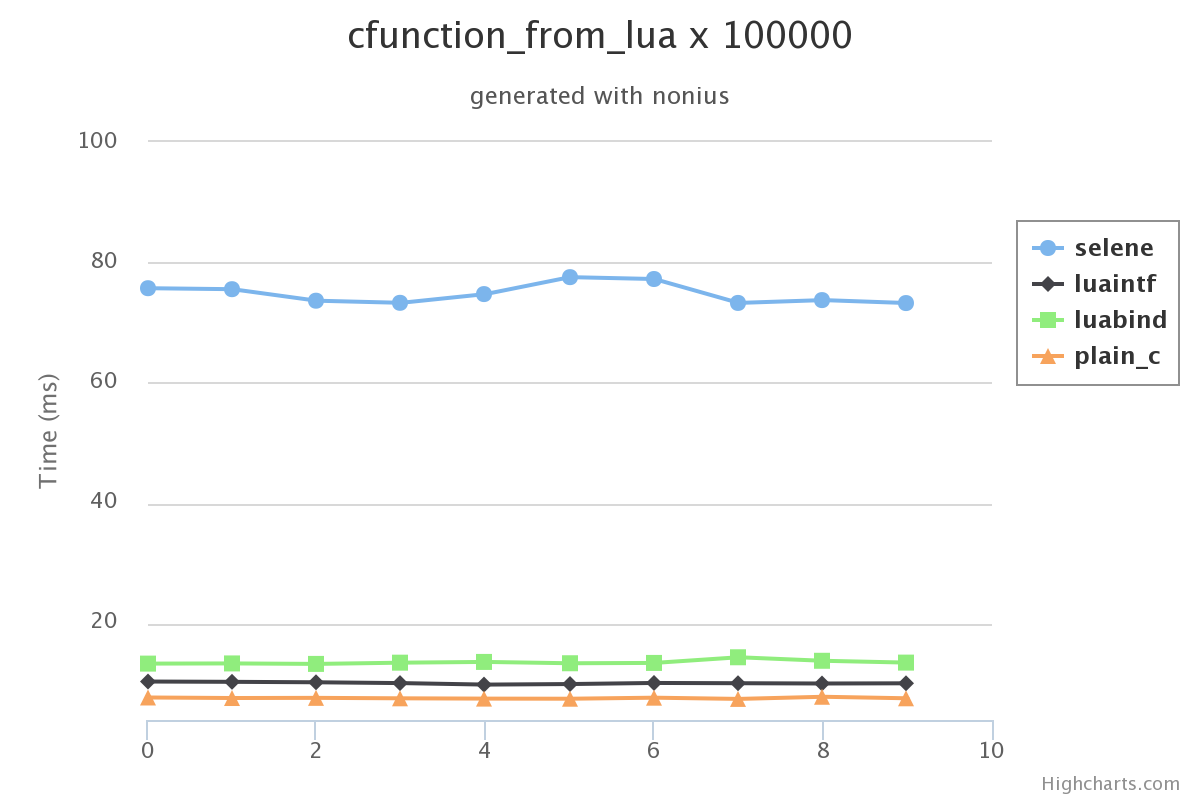
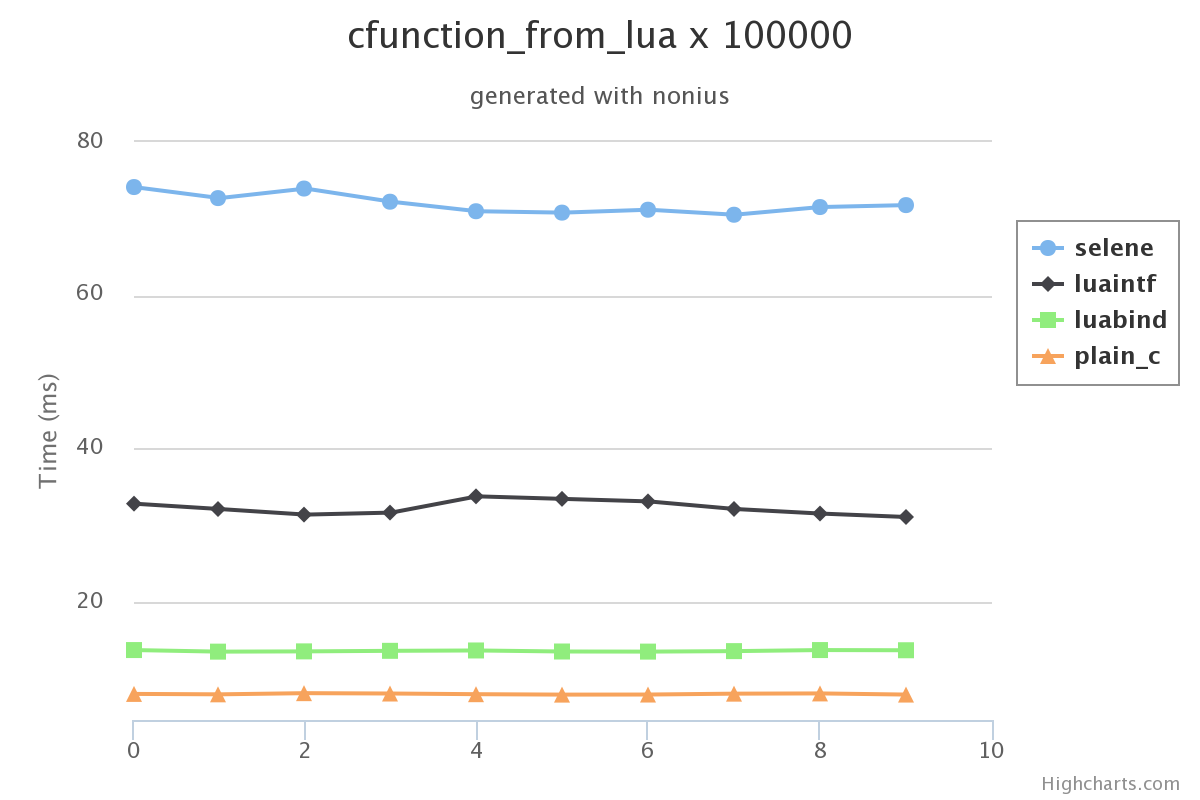
fixed bug in benchmark code results updated

diff --git a/results/cfunction_from_lua.html b/results/cfunction_from_lua.html
@@ -502,19 +502,19 @@ $(function () {
             },
             series: [{
                         name: 'selene',
-                        data: [[75.727000000000004],[75.561999999999998],[73.650000000000006],[73.301000000000002],[74.751999999999995],[77.561999999999998],[77.251000000000005],[73.283000000000001],[73.751999999999995],[73.260000000000005],]
+                        data: [[74.126999999999995],[72.686999999999998],[73.930999999999997],[72.215000000000003],[70.972999999999999],[70.790999999999997],[71.171000000000006],[70.516999999999996],[71.519000000000005],[71.771000000000001],]
                     },
                     {
                         name: 'luaintf',
-                        data: [[10.427],[10.378],[10.302],[10.167999999999999],[9.9190000000000005],[10.007999999999999],[10.191000000000001],[10.147],[10.099],[10.134],]
+                        data: [[32.850999999999999],[32.149000000000001],[31.422999999999998],[31.684999999999999],[33.805],[33.472999999999999],[33.145000000000003],[32.158000000000001],[31.561],[31.113],]
                     },
                     {
                         name: 'luabind',
-                        data: [[13.401],[13.433],[13.353],[13.555999999999999],[13.683],[13.460000000000001],[13.516999999999999],[14.455],[13.871],[13.568],]
+                        data: [[13.765000000000001],[13.558999999999999],[13.592000000000001],[13.664],[13.711],[13.577],[13.561999999999999],[13.625999999999999],[13.763999999999999],[13.739000000000001],]
                     },
                     {
                         name: 'plain_c',
-                        data: [[7.7789999999999999],[7.6890000000000001],[7.7149999999999999],[7.6399999999999997],[7.5899999999999999],[7.5739999999999998],[7.7430000000000003],[7.5419999999999998],[7.8979999999999997],[7.6420000000000003],]
+                        data: [[8.048],[7.9939999999999998],[8.1460000000000008],[8.0999999999999996],[8.0109999999999992],[7.9560000000000004],[7.9660000000000002],[8.0809999999999995],[8.1120000000000001],[7.9630000000000001],]
                     },
                     
             ]

diff --git a/bechmark/main.cpp b/bechmark/main.cpp
@@ -131,8 +131,9 @@ namespace bench_cfunction_from_lua {
 			})
 			,nonius::benchmark("luaintf", [&luaintf] {
 				int result = 0;
-				LuaIntf::LuaRef func(luaintf.state(), "luaintf.test");
+				
 				for (size_t i = 0; i < NUM_ITERATIONS; ++i) {
+					LuaIntf::LuaRef func(luaintf.state(), "luaintf.test");
 					int rv = func.call<int, int>(42);
 					//func(42);
 					result += rv;
